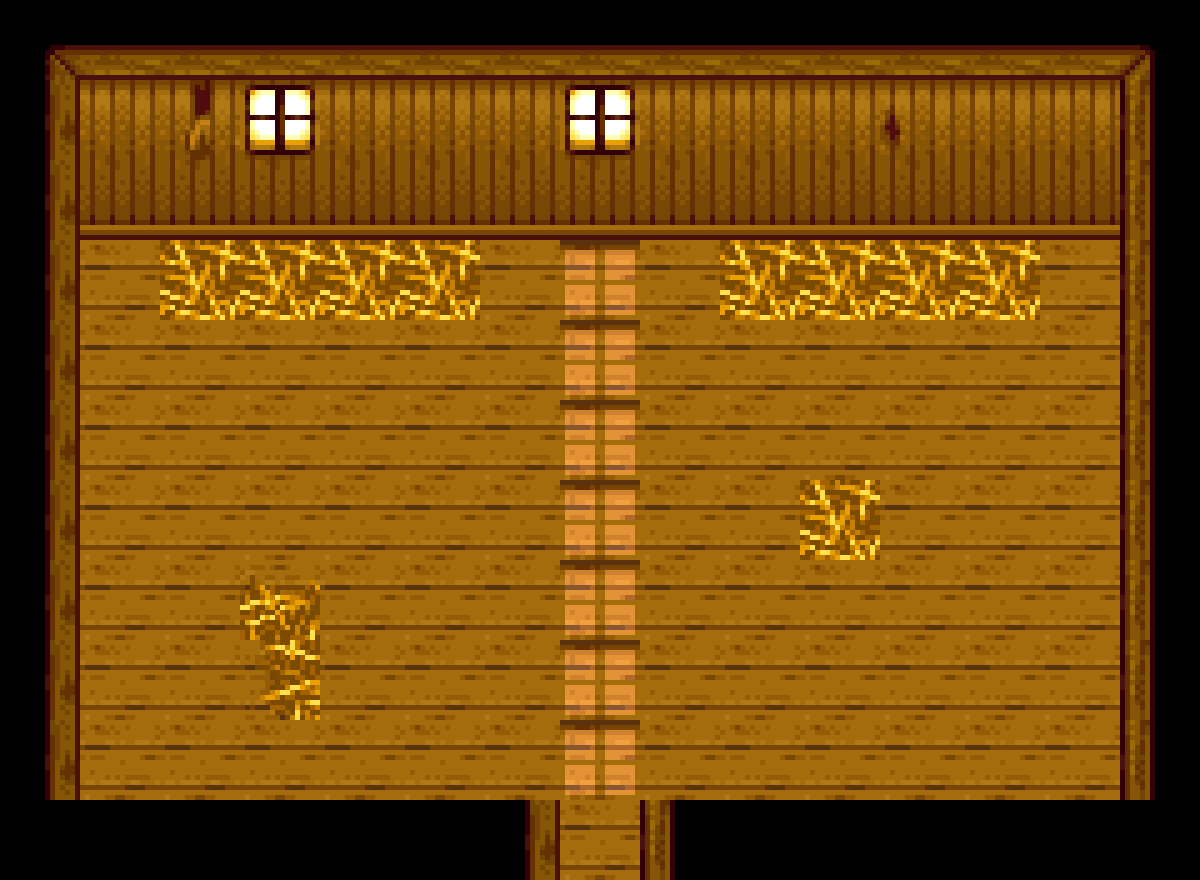
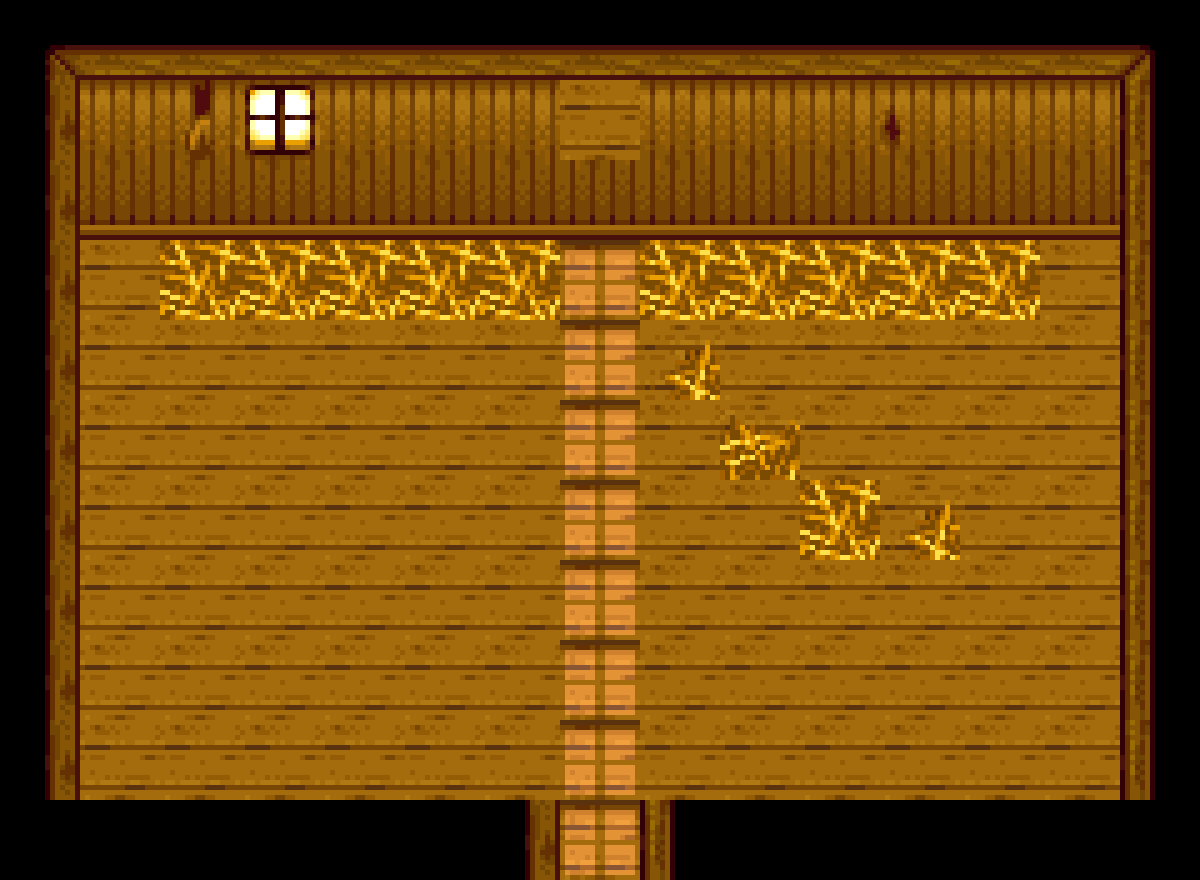
feat: 9房每种动物独立(羊/山羊分开)+北入南出+中央走道两侧动物区
- RoomDefinitions 加 Sheep 房(9 房,RoomFor 保留兼容旧存档)
- 房间入口改北墙中央(落点 DoorX,3),出口南墙底边(检测底行)
- 中央竖走道(人走),两侧栅栏与墙之间是动物区(栅栏运行时Fence)
- 干草槽全宽避开中央列,点缀避开走道
- autotest 82 PASS(9房×北入口+Trough)

diff --git a/RoomMapBuilder.cs b/RoomMapBuilder.cs
@@ -64,47 +64,43 @@ public static class RoomMapBuilder
         // 地板:全铺该房主题地板
         BarnMapRecipe.FillFloor(back, sheet, Width, Height, floorTile);
 
-        // 顶部 3 行墙体(顶墙框 + 墙带 + 墙裙) + 窗户点缀;房间无北墙门(门在南)
+        // 顶部 3 行墙体(顶墙框 + 墙带 + 墙裙),北墙中央入口(1 格门洞,DoorX)
         int[] windows = { 3, 7, 11 };
-        BarnMapRecipe.BuildWalls(back, buildings, sheet, Width, Height, northDoorXs: null, windows);
+        int[] northDoors = { DoorX };
+        BarnMapRecipe.BuildWalls(back, buildings, sheet, Width, Height, northDoors, windows);
+        BarnMapRecipe.CutNorthDoor(buildings, DoorX);
         BarnMapRecipe.AddWallDecor(buildings, sheet, Width, cobweb: true, hook: true);
 
         // 封死左右两列(房间无侧门;防穿墙:isTilePassable 对越界/null tile 当 passable)
         BarnMapRecipe.SealSides(buildings, sheet, Width, Height);
 
-        // 边界环:底行封底,只留中央 1 格出口门洞(x=DoorX)。此前 3 格缺口(x=6,7,8)只有中间格有 warp,
-        // 玩家走到两侧缺口格再往下就踩空 → 收窄成 1 格(原版门宽),两侧铺门框柱收口(视觉+物理双重保险)。
+        // 边界环:底行封底,只留中央 1 格出口门洞(x=DoorX,南墙底边出口)。门框柱收口。
         int[] southDoors = { DoorX };
         BarnMapRecipe.BuildBoundary(buildings, sheet, Width, Height, southDoors);
         BarnMapRecipe.PlaceWallPost(buildings, sheet, DoorX - 1, DoorY, westFacing: true);
         BarnMapRecipe.PlaceWallPost(buildings, sheet, DoorX + 1, DoorY, westFacing: false);
 
-        // 干草槽:Back 层 y=3(活动区第一行,墙裙 y2 之下,无遮挡)一行加 Trough 属性
+        // 干草槽:Back 层 y=3(活动区第一行,墙裙 y2 之下,无遮挡)加 Trough 属性
         // (AnimalHouse.feedAllAnimals 扫描 "Trough"/"Back" 属性喂食),并铺干草块(18)做视觉标识。
-        // 只铺在左右两圈内(x=2..5 与 x=9..12),中间过道 x=7 不铺(人是走道,不放槽)。
-        for (int x = 2; x <= 5; x++)
+        // 全宽一排(动物区就在中间大片区域),留出北入口列。
+        for (int x = 2; x <= Width - 3; x++)
         {
+            if (x == DoorX) continue;   // 北入口列留空
             back.Tiles[x, 3] = new StaticTile(back, sheet, BlendMode.Alpha, 18);
             back.Tiles[x, 3].Properties["Trough"] = "T";
         }
-        for (int x = 9; x <= 12; x++)
-        {
-            back.Tiles[x, 3] = new StaticTile(back, sheet, BlendMode.Alpha, 18);
-            back.Tiles[x, 3].Properties["Trough"] = "T";
-        }
-        // 中间过道 x=7 铺浅色板(人的走道,视觉区分)
-        for (int y = 3; y <= 9; y++)
+        // 中央竖走道(北入口→南出口,浅色板,人走),x=DoorX 贯穿
+        for (int y = 3; y <= DoorY; y++)
             back.Tiles[DoorX, y] = new StaticTile(back, sheet, BlendMode.Alpha, FloorLight);
 
-        // 干草点缀:在左右两圈内(y>=4)撒几撮干草,营造畜棚氛围(每房种子固定)。
-        // 只在圈内(x 2..5 / 9..12),中间过道不留。
+        // 干草点缀:在中央大片区域(y>=4)撒几撮干草,营造畜棚氛围(每房种子固定)。
         var rng = new System.Random(seed);
         int scatterCount = 5;
         for (int i = 0; i < scatterCount; i++)
         {
             int x = rng.Next(2, Width - 2);
             int y = rng.Next(4, Height - 2);
-            if (x == DoorX || x >= DoorX - 1 && x <= DoorX + 1) continue;  // 中间过道(人走)不留
+            if (x == DoorX) continue;   // 中央走道不留
             int hay = HayScatter[rng.Next(HayScatter.Length)];
             back.Tiles[x, y] = new StaticTile(back, sheet, BlendMode.Alpha, hay);
         }

diff --git a/LobbyDoors.cs b/LobbyDoors.cs
@@ -156,26 +156,18 @@ public static class RoomManager
     /// <summary>测试/诊断用。</summary>
     public static int Count => Rooms.Count + Halls.Count;
 
-    /// <summary>在房间铺左右两个动物圈(木围栏) + 中间过道。
-    /// 圈:y=3..8, 左圈 x=2..6, 右圈 x=8..12, 中间过道 x=7(DoorX)贯穿。
-    /// 动物在圈里走动吃食,玩家走中间过道 —— 普通养殖场的样子。</summary>
+    /// <summary>在房间铺围栏:中央竖走道 x=DoorX(北入口→南出口,人走)两侧各 1 列栅栏
+    /// (x=DoorX-1 / x=DoorX+1),栅栏外侧是左右两个大动物区。动物在动物区里,玩家走中央走道。
+    /// 栅栏竖向(y=3..9),北入口行(y=2?)不留 —— 栅栏从槽行 y=3 到门口 y=9。</summary>
     private static void BuildPenFences(GameLocation loc)
     {
-        int w = RoomMapBuilder.Width;
         int xMid = RoomMapBuilder.DoorX;
-        // 左圈右边界 x=6 一列(圈内动物,圈外过道)
-        FenceColumn(loc, 6, fence: true);
-        // 右圈左边界 x=8 一列
-        FenceColumn(loc, 8, fence: true);
-        // 两圈之间过道 x=7 贯通(不设围栏)
-    }
-
-    private static void FenceColumn(GameLocation loc, int x, bool fence)
-    {
-        for (int y = 3; y <= 8; y++)
+        // 中央走道两侧各 1 列栅栏
+        for (int y = 3; y <= 9; y++)
         {
-            var tile = new Vector2(x, y);
-            loc.objects[tile] = new Fence(tile, Fence.woodFenceId, isGate: false);
+            loc.objects[new Vector2(xMid - 1, y)] = new Fence(new Vector2(xMid - 1, y), Fence.woodFenceId, isGate: false);
+            loc.objects[new Vector2(xMid + 1, y)] = new Fence(new Vector2(xMid + 1, y), Fence.woodFenceId, isGate: false);
         }
+        // NOTE:动物区 x=1..xMid-2 / xMid+2..13 是动物自由区;玩家走中央走道 xMid 上下贯通。
     }
 }

diff --git a/RoomDefinitions.cs b/RoomDefinitions.cs
@@ -1,6 +1,6 @@
 namespace AnimalBarn;
 
-/// <summary>8 个动物房间的定义(地图名/显示名)。</summary>
+/// <summary>9 个动物房间的定义(地图名/显示名)。每种动物独立一间房(羊和山羊也分开)。</summary>
 public record RoomDef(RoomType Room, string MapName, string DisplayName);
 
 public static class RoomDefinitions
@@ -17,12 +17,15 @@ public static class RoomDefinitions
         new(RoomType.Pig,      MapPrefix + "Pig",      "养猪场"),
         new(RoomType.Goat,     MapPrefix + "Goat",     "羊场"),
         new(RoomType.Cow,      MapPrefix + "Cow",      "养牛场"),
+        new(RoomType.Sheep,    MapPrefix + "Sheep",    "养羊场"),
     };
 
     public static RoomDef Get(RoomType room) => All.First(r => r.Room == room);
 
-    /// <summary>动物类型 -> 实际容纳它的房间。绵羊(Sheep)与山羊(Goat)共用一间「羊场」(9 种动物 8 间房),
-    /// 所以买绵羊、判解锁/容量、生成实体动物都要落到 RoomType.Goat 这间房;其余动物 1:1。
-    /// 直接 Get(RoomType.Sheep) 会抛异常(All 里没有 Sheep 房),所有按"动物买的房间"走的代码必须改用本方法。</summary>
-    public static RoomType RoomFor(RoomType animalType) => animalType == RoomType.Sheep ? RoomType.Goat : animalType;
+    /// <summary>动物类型 -> 实际容纳它的房间。9 种动物现在各一间房,1:1 映射(羊和山羊已分开)。
+    /// 保留此方法仅为兼容旧存档(旧版羊在羊场 Goat 房,读档后迁移到 Sheep 房)。</summary>
+    public static RoomType RoomFor(RoomType animalType) => animalType == RoomType.Sheep && !HasRoom(animalType) ? RoomType.Goat : animalType;
+
+    /// <summary>是否已有该房间定义。</summary>
+    public static bool HasRoom(RoomType room) => All.Any(r => r.Room == room);
 }

diff --git a/RoomAnimalRenderer.cs b/RoomAnimalRenderer.cs
@@ -87,19 +87,22 @@ public static class RoomAnimalRenderer
         }
     }
 
-    /// <summary>在房间活动区里随机挑一个可通行格(像素坐标)。优先动物圈(y4..围栏上行),
-    /// 兜底门洞上方一格(保证总能放下)。可通行 = Buildings 层该格无阻挡 tile(墙/围栏/封底)。</summary>
+    /// <summary>在房间活动区里随机挑一个可通行格(像素坐标)。优先动物区(中央走道两侧大片区域,
+    /// x 避开中央走道列),兜底北入口下方中央走道(进房间的地方)。</summary>
     private static Vector2 FindOpenPosition(AnimalHouse ah)
     {
-        int w = RoomMapBuilder.Width, h = RoomMapBuilder.Height;
         var buildings = ah.map?.GetLayer("Buildings");
+        int xMid = RoomMapBuilder.DoorX;
         for (int tries = 0; tries < 12; tries++)
         {
-            int x = Game1.random.Next(1, w - 1);
-            int y = Game1.random.Next(4, h - 2);          // y4..h-3(动物圈/活动区,避开 y0-2 墙、y3 槽行、底行)
+            int x = Game1.random.Next(2) == 0
+                ? Game1.random.Next(1, xMid - 1)     // 左动物区 x=1..xMid-2
+                : Game1.random.Next(xMid + 2, RoomMapBuilder.Width - 1);  // 右动物区 x=xMid+2..13
+            int y = Game1.random.Next(4, RoomMapBuilder.Height - 2);
             if (buildings == null || buildings.Tiles[x, y] == null)
                 return new Vector2(x * 64f, y * 64f);
         }
-        return new Vector2(RoomMapBuilder.DoorX * 64f, (RoomMapBuilder.DoorY - 3) * 64f);  // 兜底:门口上方
+        // 兜底:北入口下方中央走道 (DoorX, 4)
+        return new Vector2(xMid * 64f, 4 * 64f);
     }
 }

diff --git a/IntegrationTest.cs b/IntegrationTest.cs
@@ -129,7 +129,8 @@ public static class IntegrationTest
                 Check($"room {def.Room} loads", map != null && map.Layers.Count >= 5);
                 Check($"room {def.Room} AutoFeed", map != null && map.Properties.ContainsKey("AutoFeed"));
                 Check($"room {def.Room} ProduceArea", map != null && map.Properties.ContainsKey("ProduceArea"));
-                Check($"room {def.Room} Trough", map?.GetLayer("Back").Tiles[5, 3]?.Properties.ContainsKey("Trough") == true);
+                Check($"room {def.Room} Trough", map?.GetLayer("Back").Tiles[5, 3]?.Properties.ContainsKey("Trough") == true);   // 槽行全宽,避开中央列 x=7
+                Check($"room {def.Room} north entrance", map != null && map.GetLayer("Buildings")!.Tiles[RoomMapBuilder.DoorX, 1] == null);   // 北墙中央入口开
                 Check($"room {def.Room} Warp", room.warps.Any(w => w.TargetName == "Farm"));
             }
 

diff --git a/RoomSelectMenu.cs b/RoomSelectMenu.cs
@@ -70,7 +70,8 @@ public class RoomSelectMenu : IClickableMenu
 
                 RoomAnimalRenderer.EnsureVisibleOnEnter(target);
                 Game1.activeClickableMenu = null;   // 关菜单
-                Game1.warpFarmer(target.NameOrUniqueName, RoomMapBuilder.DoorX, RoomMapBuilder.DoorY - 1, 0);
+                // 入口在北墙中央:落点在北门下方(DoorX, 3),玩家朝下进门。
+                Game1.warpFarmer(target.NameOrUniqueName, RoomMapBuilder.DoorX, 3, 2);
                 Game1.playSound("smallSelect");
                 return;
             }
